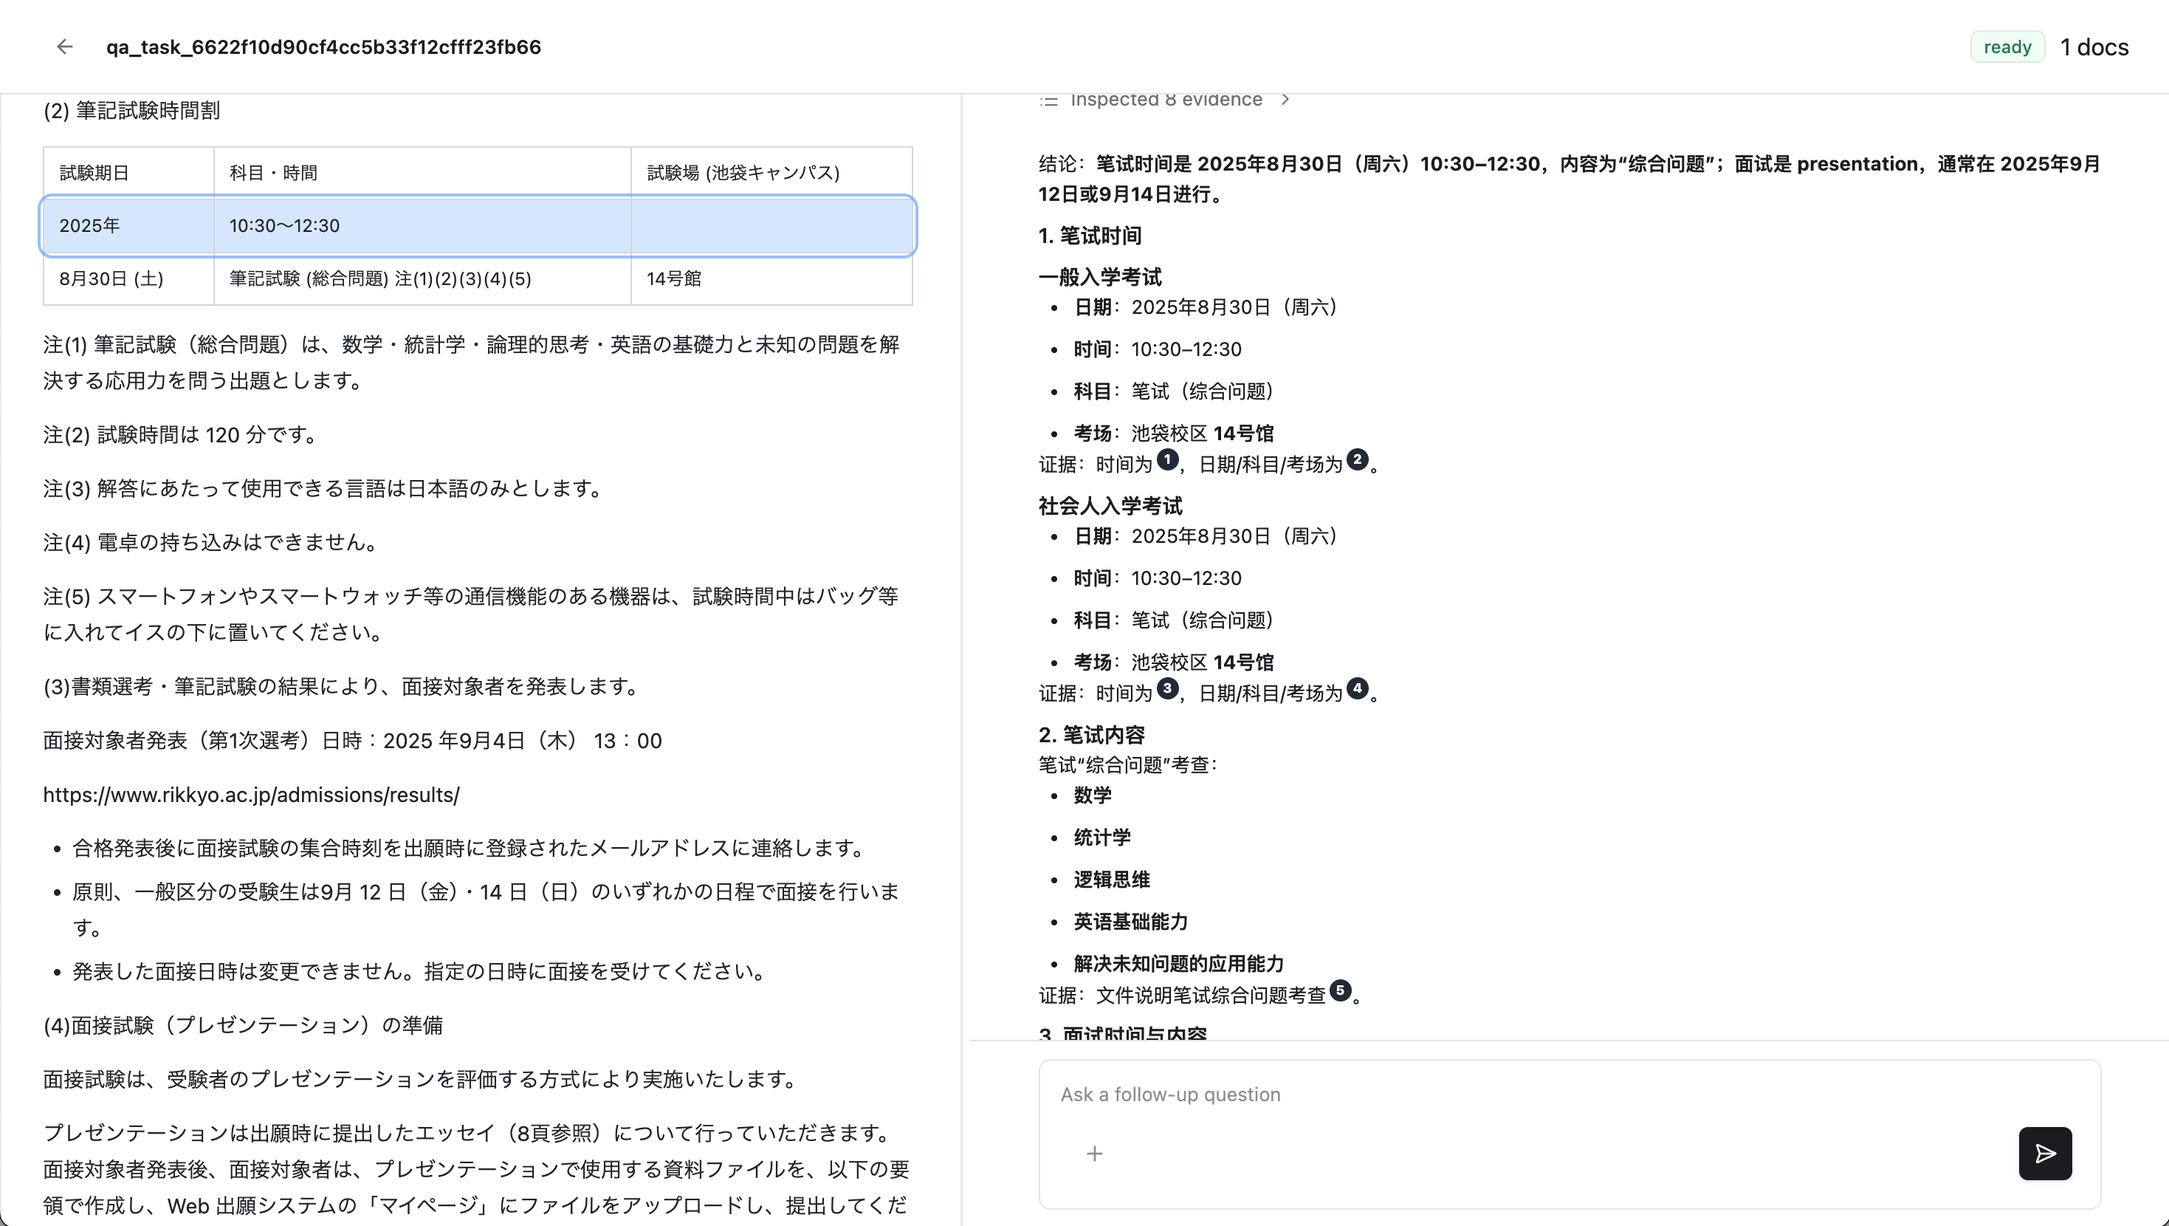
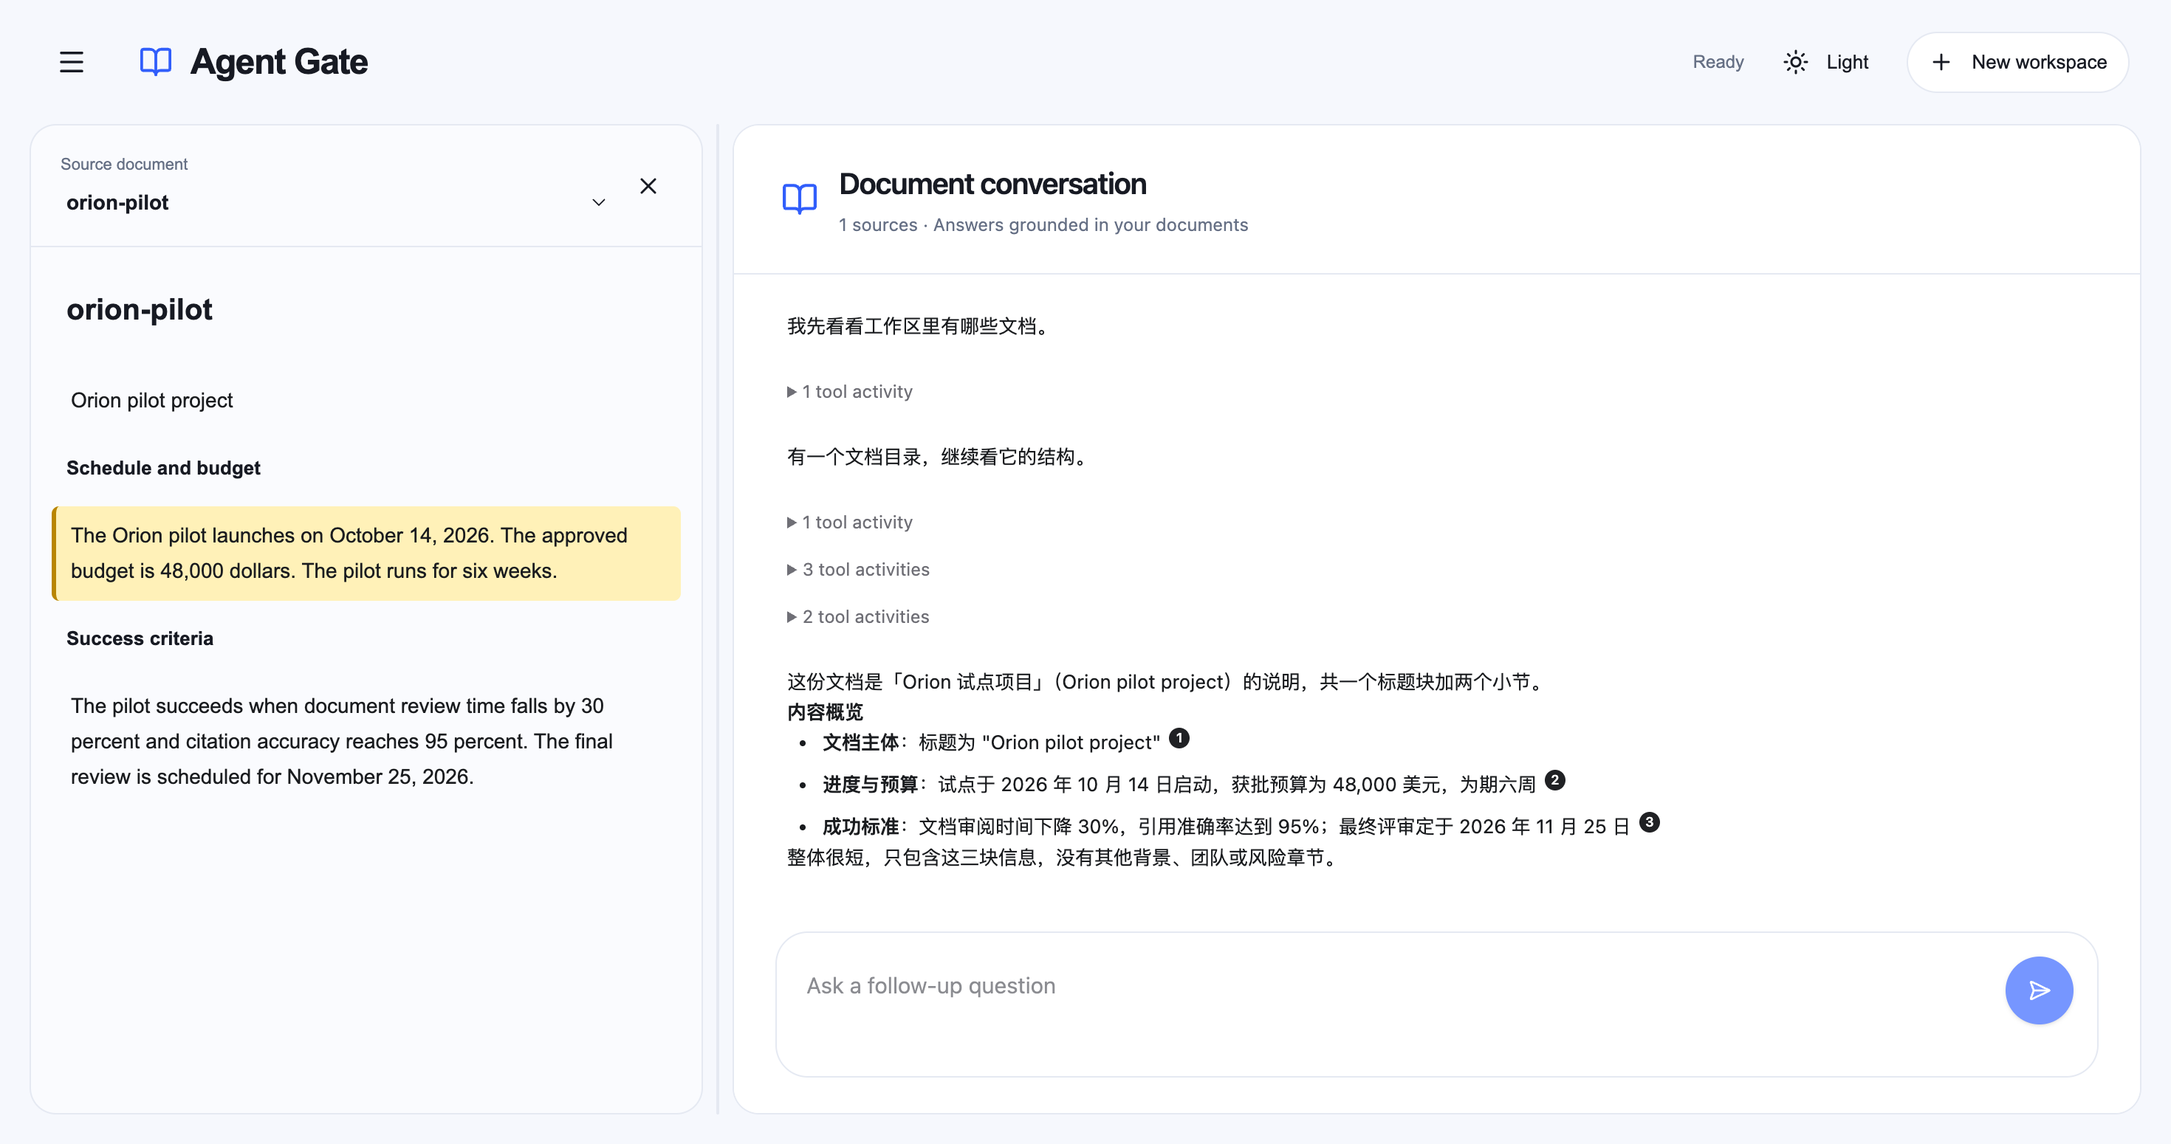
docs: 更新工作台说明与实际界面截图

diff --git a/README.md b/README.md
@@ -1,7 +1,7 @@
 <p align="center">
   <h1 align="center">TraceAgent</h1>
   <p align="center">
-    <strong>Evidence-grounded Document QA — 让每个回答都能追溯到原文</strong>
+    <strong>Evidence-grounded Document QA - 让每个回答都能追溯到原文</strong>
   </p>
   <p align="center">
     <code>FastAPI</code> · <code>LangGraph</code> · <code>Next.js</code> · <code>SSE</code>
@@ -13,26 +13,28 @@
 
 ---
 
-> 普通文档 QA 只给答案；**TraceAgent 给答案 + 证据 + 可回放的推理过程。**
+> **TraceAgent 将文档回答、原文证据和工具查阅过程放在同一个工作台。**
 
-模型回答文档事实时附带 evidence link，点击即跳转原文高亮。你不需要相信模型——你可以自己核对它看了什么、读了哪里、结论由哪一句支撑。
+模型回答文档事实时附带数字引用，点击即可打开原文并高亮对应内容。你可以核对它查阅了什么、读了哪里，以及结论由哪一段支撑。浏览器工作台显示为 Agent Gate。
 
 <h2 id="demo">🎬 Demo</h2>
 
 <p align="center">
-  <img src="docs/assets/demo-qa-evidence-review.png" alt="TraceAgent：左侧多轮 QA 对话，右侧原文 evidence 高亮" width="100%">
+  <img src="docs/assets/demo-qa-evidence-review.png" alt="Agent Gate：左侧原文引用高亮，右侧文档问答与工具过程" width="100%">
 </p>
-<p align="center"><em>左：多轮 QA 对话（过程流 + evidence link） · 右：原文高亮定位</em></p>
+<p align="center"><em>左：全文阅读与引用高亮 · 右：工具过程、回答与数字引用</em></p>
+
+截图来自本地实际运行的工作台和已有 Orion 示例文档会话，更新于 2026-10-02。
 
 <table>
 <tr>
 <td width="50%">
-<img src="docs/assets/demo-qa-exam-time.png" alt="文档 QA 查询考试时间" width="100%">
-<p align="center"><em>查询考试时间</em></p>
+<img src="docs/assets/demo-home-workspace.png" alt="Agent Gate 首页文档上传与首问入口" width="100%">
+<p align="center"><em>首页：添加文档、摘要与问题草稿入口</em></p>
 </td>
 <td width="50%">
-<img src="docs/assets/demo-qa-exam-content.png" alt="文档 QA 查找考试内容" width="100%">
-<p align="center"><em>查找考试内容</em></p>
+<img src="docs/assets/demo-qa-workspace.png" alt="Agent Gate 会话来源列表与文档问答" width="100%">
+<p align="center"><em>会话：来源管理、工具过程与带引用的回答</em></p>
 </td>
 </tr>
 </table>
@@ -42,11 +44,13 @@
 | &nbsp; | 功能 | 说明 |
 |:---:|---|---|
 | 💬 | **多轮文档 QA** | 上传 PDF / DOCX，围绕同一批文档连续追问 |
-| 🔗 | **Evidence Link** | 回答中的事实用 `[label](evidence://...)` 绑定原文位置 |
-| 📖 | **原文 Review** | 点击 evidence 打开右侧原文，高亮段落 / 句子 / 列表项 / 表格行 |
+| 🔗 | **数字引用** | 回答中的文档链接绑定 Markdown 块，显示为可点击的数字引用 |
+| 📖 | **原文 Review** | 点击引用在左侧打开全文，高亮目标块并保留前后章节 |
+| | **来源管理** | 逐文件显示处理状态，支持失败重试、补传、下载与删除 |
+| | **会话恢复** | 最近会话来自后端数据库，刷新或打开会话链接可恢复文件与历史 |
 | 🧭 | **过程可见** | 展示模型浏览目录、搜索关键词、阅读片段的完整轨迹 |
 | 🛑 | **可取消生成** | 随时取消当前回答，后端立即终止 agent 循环 |
-| 📄 | **多格式** | PDF（MinerU OCR）· DOCX（python-docx）→ 统一语义 HTML |
+| 📄 | **多格式** | PDF（MinerU OCR）与 DOCX（python-docx）解析为 HTML，再生成 Markdown 文件树与 embedding 索引 |
 
 ## 🧠 工作原理
 
@@ -58,12 +62,15 @@ flowchart LR
     Document --> |"raw · documents.zip · index"| Storage["🪣 S3-compatible storage"]
     Backend --> |"resource_refs + messages"| Agent["🤖 file_extraction_agent"]
     Agent --> |"read resource_refs"| Storage
-    Agent --> |"ls · grep · read · inspect"| Agent
-    Agent --> |"SSE events"| Frontend["🖥 frontend"]
-    Frontend --> |"evidence://"| Review["📖 原文高亮"]
+    Agent --> |"ls · grep · read · search_embedding"| Agent
+    Agent --> |"gRPC events"| Backend
+    Backend --> |"SSE snapshot + events"| Frontend["🖥 frontend"]
+    Frontend --> |"数字引用"| Review["📖 全文阅读与原文高亮"]
 ```
 
-TraceAgent 不把整篇文档塞进 prompt，而是将文档映射为**只读虚拟仓库**。模型通过 `ls` / `grep` / `read` / `inspect` 四个工具按需浏览，像人翻阅资料一样逐步定位答案，每一步都通过 SSE 实时推送到前端。
+TraceAgent 将文档映射为**只读虚拟仓库**。模型通过 `ls` / `grep` / `read` / `search_embedding` 浏览目录、搜索关键词、读取正文或检索语义相近的片段，工具过程和回答通过 SSE 实时推送到前端。
+
+浏览器通过 Next.js 代理访问 backend。backend 校验上传文件，通过独立 document service 准备资源，再将资源引用和消息历史交给 agent 执行问答。SQLite 保存会话、资源引用、轮次和完整消息；恢复页面时先读取快照，再订阅活跃轮次。过程增量只在内存中广播，历史工具活动由已保存的工具调用和结果恢复。
 
 > 详细架构设计见 [`agent/docs/DESIGN.md`](agent/docs/DESIGN.md)
 
@@ -81,7 +88,7 @@ conda create -n agent-gate python=3.11 -y && conda activate agent-gate
 ./scripts/install.sh          # 安装 Python 包 + 构建前端
 ```
 
-安装包含 storage 服务及默认 OpenVINO embedding 依赖。首次上传文档时会下载 embedding 模型，需要能访问 Hugging Face。
+安装包含 storage 服务及默认 OpenVINO embedding 依赖。document service 启动时会加载并预热 embedding 模型，首次加载需要从 Hugging Face 下载；预热成功后才开始监听。
 
 若公开模型下载返回 401，而匿名访问正常，可在 `.env` 设置 `HF_HUB_DISABLE_IMPLICIT_TOKEN=1`，避免自动发送本机已有的 Hugging Face token；需要访问私有模型时应使用有效凭据。
 
@@ -114,16 +121,25 @@ STORAGE_PORT=9000
 
 打开 http://127.0.0.1:3000 即可使用。
 
-> 详细配置和故障排查见各子包 README：[`agent/`](agent/README.md) · [`backend/`](backend/README.md) · [`frontend/`](frontend/docs/)
+1. 点击 Add source / Add sources 选择 PDF 或 DOCX，文件即进入串行处理队列。单次选择最多 20 个文件、合计 32 MiB，空文件不支持。
+2. 文件全部处理完成后自动进入 `/tasks/{session_id}`。输入问题并发送；Get a summary 和 Explore the details 只填写可编辑草稿。
+3. 点击回答中的数字引用，在左侧查看全文和高亮块；关闭阅读器可回到 Sources，通过 Add files 补传文档。
+4. 点击左上角菜单打开 Recent workspaces，或再次打开会话链接，恢复同一后端数据库中的文件与历史。
+
+默认数据库为 `backend/backend.sqlite3`，可通过 `BACKEND_DATABASE_PATH` 配置。当前面向单用户本地运行，backend 使用单进程；没有租户鉴权，旧 `qa_*` 数据不自动迁移。
+
+> 详细配置和设计：[`agent/`](agent/README.md) · [`document_service/`](document_service/README.md) · [`backend/`](backend/README.md) · [`frontend/`](frontend/docs/DESIGN.md)
 
 ## 🗺 项目结构
 
 ```
-document_service/ 文档服务 — PDF/DOCX 解析、文档树、embedding 和资源发布
-shared/       共享基础设施 — storage object store 客户端
-agent/        AI 能力层 — QA Agent（LangGraph 驱动）
-backend/      持久化与编排 — sessions / resources / messages / events（SQLite）
-frontend/     浏览器工作台 — 上传、QA stream、过程流、evidence review（Next.js）
+agent_proto/      共享协议 - agent 与 document service 的 protobuf/gRPC 契约
+document_service/ 文档服务 - PDF/DOCX 解析、Markdown 文档树、embedding 和资源发布
+storage/          对象存储 - 本地 S3 兼容 HTTP 服务
+shared/           共享基础设施 - object store 客户端
+agent/            AI 能力层 - QA Agent（LangGraph 驱动）
+backend/          持久化与编排 - sessions / resources / turns / messages（SQLite）
+frontend/         浏览器工作台 - 来源管理、QA stream、工具过程与原文阅读（Next.js）
 ```
 
 ## 📄 License

diff --git a/README.ja.md b/README.ja.md
@@ -1,7 +1,7 @@
 <p align="center">
   <h1 align="center">TraceAgent</h1>
   <p align="center">
-    <strong>Evidence-grounded document QA — すべての回答を原文まで追跡できる。</strong>
+    <strong>Evidence-grounded document QA - すべての回答を原文まで追跡できる。</strong>
   </p>
   <p align="center">
     <a href="README.md">中文</a> · <a href="#demo">Demo</a> · <a href="#quickstart">Quick Start</a> · <a href="LICENSE">MIT License</a>
@@ -12,22 +12,24 @@
 
 一般的な文書 QA は答えだけを返します。TraceAgent は答え + 証拠を返します。
 
-モデルが文書の事実を回答するとき evidence link を付与し、クリックすると原文が開いて該当箇所がハイライトされます。モデルを信じる必要はありません——自分の目で原文を確認できます。
+モデルが文書の事実を回答するとき evidence link を付与し、クリックすると原文が開いて該当箇所がハイライトされます。自分の目で原文を確認できます。ブラウザのワークスペースには Agent Gate と表示されます。
 
 <h2 id="demo">🎬 デモ</h2>
 
-<img src="docs/assets/demo-qa-evidence-review.png" alt="TraceAgent：左側にマルチターン QA、右側に原文 evidence ハイライト" width="100%">
-<p align="center"><em>左：マルチターン QA（過程表示 + evidence link） · 右：原文ハイライト</em></p>
+<img src="docs/assets/demo-qa-evidence-review.png" alt="TraceAgent：左側に原文ハイライト、右側に文書 QA とツールの過程" width="100%">
+<p align="center"><em>左：全文表示と引用ハイライト · 右：ツールの過程、回答と数字の引用</em></p>
+
+スクリーンショットは実際のローカル画面と既存の Orion サンプル会話です（2026-10-02 更新）。
 
 <table>
 <tr>
 <td width="50%">
-<img src="docs/assets/demo-qa-exam-time.png" alt="文書 QA で試験時間を確認" width="100%">
-<p align="center"><em>試験時間を確認</em></p>
+<img src="docs/assets/demo-home-workspace.png" alt="Agent Gate の文書アップロード画面" width="100%">
+<p align="center"><em>ホーム：文書追加と質問入力</em></p>
 </td>
 <td width="50%">
-<img src="docs/assets/demo-qa-exam-content.png" alt="文書 QA で試験内容を検索" width="100%">
-<p align="center"><em>試験内容を検索</em></p>
+<img src="docs/assets/demo-qa-workspace.png" alt="Agent Gate の文書一覧と QA" width="100%">
+<p align="center"><em>会話：文書管理と引用付き回答</em></p>
 </td>
 </tr>
 </table>
@@ -37,8 +39,10 @@
 | | 機能 | 説明 |
 |---|---|---|
 | 💬 | **マルチターン文書 QA** | PDF / DOCX をアップロードして同じ文書群に継続して質問 |
-| 🔗 | **Evidence Link** | 回答中の事実を `[label](evidence://...)` で原文に紐づけ |
-| 📖 | **原文 Review** | evidence クリックで右側に原文 HTML を表示、段落 / リスト項目 / 表行をハイライト |
+| 🔗 | **Evidence Link** | Markdown ブロックへのリンクをクリック可能な数字の引用として表示 |
+| 📖 | **原文 Review** | 引用クリックで左側に全文を表示し、対象の Markdown ブロックをハイライト |
+| | **文書管理** | ファイルごとの処理状態、再試行、追加、ダウンロードと削除 |
+| | **会話の復元** | backend のデータベースから最近の会話と履歴を取得 |
 | 🧭 | **過程表示** | モデルが目次を見て、検索し、片段を読む過程を可視化 |
 | 🛑 | **生成キャンセル** | いつでも回答生成を中断、入力欄は編集可能なまま |
 | 📄 | **複数形式** | PDF（MinerU OCR）と DOCX（python-docx）に対応 |
@@ -47,14 +51,14 @@
 
 ```mermaid
 flowchart LR
-    Upload["📄 文書アップロード"] --> Normalize["🔧 安定 id 付き HTML に標準化"]
+    Upload["📄 文書アップロード"] --> Normalize["🔧 HTML → Markdown 文書ツリーと embedding 索引"]
     Normalize --> Ask["💬 ユーザーが質問"]
     Ask --> Agent["🤖 QA Agent がツールで文書を閲覧"]
     Agent --> Answer["✅ 回答 + evidence link"]
-    Answer --> Review["📖 右側原文ハイライト"]
+    Answer --> Review["📖 左側の全文表示と引用ハイライト"]
 ```
 
-TraceAgent は文書全体を prompt に詰め込まず、文書を読み取り専用の仮想リポジトリとして扱います。モデルは `tree` / `grep` / `read` / `inspect` の 4 つのツールで必要に応じて資料をたどり、人が資料を調べるように段階的に答えを見つけます。
+TraceAgent は文書全体を prompt に詰め込まず、文書を読み取り専用の仮想リポジトリとして扱います。モデルは `ls` / `grep` / `read` / `search_embedding` の 4 つのツールで必要に応じて資料をたどり、人が資料を調べるように段階的に答えを見つけます。
 
 > 詳細なアーキテクチャは [`agent/docs/DESIGN.md`](agent/docs/DESIGN.md) を参照
 
@@ -71,6 +75,8 @@ conda create -n agent-gate python=3.11 -y && conda activate agent-gate
 ./scripts/install.sh
 ```
 
+document service は起動時に embedding モデルを読み込み、ウォームアップ後に待ち受けを開始します。初回は Hugging Face からのモデルダウンロードが必要です。
+
 リポジトリルートに `.env` を作成します。起動スクリプトが自動的に読み込みます。
 
 ```bash
@@ -82,8 +88,10 @@ MODEL_API_TRANSPORT="responses"
 DOCUMENT_PROCESSOR_MINERU_LANG="japan"
 
 AGENT_PORT=8001
+DOCUMENT_PORT=8002
 BACKEND_PORT=8000
 FRONTEND_PORT=3000
+STORAGE_PORT=9000
 ```
 
 本番起動：
@@ -94,14 +102,27 @@ FRONTEND_PORT=3000
 
 ブラウザで http://127.0.0.1:3000 を開けば使えます。
 
+1. Add source / Add sources で PDF または DOCX を選ぶと、ファイルを順番に処理します。1 回の選択は最大 20 ファイル、合計 32 MiB。空ファイルには対応しません。
+2. 処理完了後は `/tasks/{session_id}` に移動します。質問を入力して送信してください。要約や詳細のボタンは編集可能な質問を入力するだけです。
+3. 回答の数字の引用をクリックすると左側に全文とハイライトを表示します。閉じると Sources に戻り、Add files で文書を追加できます。
+4. 左上のメニューの Recent workspaces、または会話 URL から文書と履歴を復元できます。
+
+既定のデータベースは `backend/backend.sqlite3`、ローカル storage は `storage/data` です。`BACKEND_DATABASE_PATH` と `STORAGE_DATA_ROOT` で変更できます。`S3_ENDPOINT_URL` を設定すると外部 S3 互換サービスを利用し、ローカル storage の起動を省略します。終了時はスクリプトが起動したサービスを停止します。
+
+現在は単一ユーザー向けのローカル構成です。backend は単一プロセスで動作し、テナント認証や旧 `qa_*` データの自動移行はありません。
+
 > 詳細な設定とトラブルシューティングは各パッケージの README を参照：[`agent/`](agent/README.md) · [`backend/`](backend/README.md) · [`frontend/`](frontend/docs/)
 
 ## 🗺 プロジェクト構成
 
 ```
-agent/        AI 層：文書標準化 + QA Agent
-backend/      永続化と編成：tasks / documents / messages / events
-frontend/     ブラウザ工作台：アップロード、QA、過程表示、evidence review
+agent_proto/      共有 protobuf/gRPC 契約
+document_service/ 文書解析、Markdown 文書ツリー、embedding とリソース公開
+storage/          ローカル S3 互換 HTTP サービス
+shared/           object store クライアント
+agent/            QA Agent（LangGraph）
+backend/          SQLite：sessions / resources / turns / messages
+frontend/         文書管理、QA、ツールの過程と全文表示（Next.js）
 ```
 
 ## 📄 ライセンス

diff --git a/frontend/docs/DEVLOG.md b/frontend/docs/DEVLOG.md
@@ -1,6 +1,14 @@
 # Frontend Devlog
 
-last updated: 2026-09-20
+last updated: 2026-10-02
+
+## 2026-10-02
+
+### 更新 README 与实际工作台截图
+
+根目录中文和日文 README 原先仍展示旧的考试问答界面，原文面板方向、工具名称和项目结构也已过时。现用实际启动的工作台重新截图，展示首页、来源管理与已有 Orion 示例会话的数字引用高亮，并同步说明逐文件处理、补传、会话恢复、Markdown 文档树及 embedding 预热。问答事件由 agent 经 gRPC 交给 backend，再以 SSE 发送到浏览器。
+
+从仓库根目录构建前端并通过 scripts/start.sh 启动五个服务，使用默认数据库与 storage 数据目录。生产构建通过，backend/storage HTTP 探活及 agent/document gRPC 探活通过；真实浏览器恢复已有会话，点击预算引用读取全文并高亮，关闭阅读器返回来源列表。逐张检查截图和 README 本地链接。此次仅修改文档及截图，没有新增上传或模型问答，也没有行为变更，因此无需新增测试或修改设计文档。
 
 ## 2026-09-20
 
